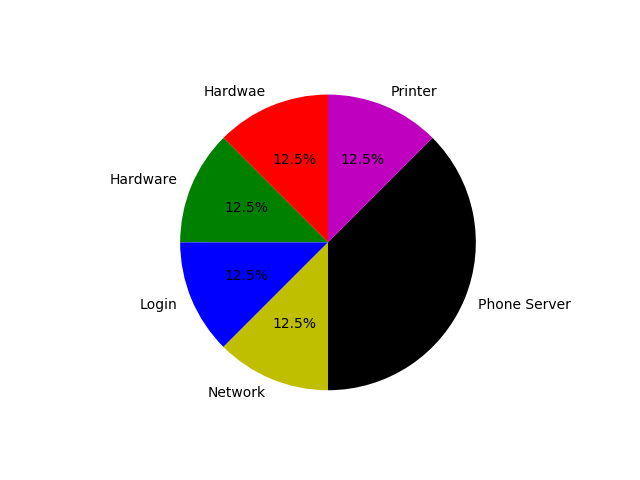
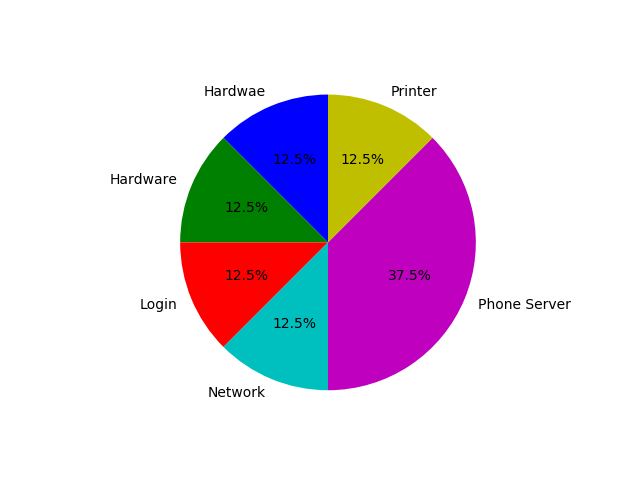
updated

Changed region(s): [[0.2812, 0.1875, 0.75, 0.8125]]

diff --git a/app/report_service.py b/app/report_service.py
@@ -27,7 +27,7 @@ def report_by_category():
                 index += 1
     #print(activities)
     #activities = ['Hardware', 'Internet', 'Login','Network','Phone Server', 'Printer']
-    colors = ['r', 'g','b','y','k','m']
+    colors = ['b', 'g','r','c','m','y']
     plt.pie(slices_hours, labels=activities, colors=colors, startangle=90, autopct='%.1f%%')
     #plt.show()
     plt.savefig('app/static/images/example_category_report.png')
@@ -58,7 +58,7 @@ def report_by_department():
                 index += 1
     #print(activities)
     #activities = ['Hardware', 'Internet', 'Login','Network','Phone Server', 'Printer']
-    colors = ['r', 'g','b','y','k','m']
+    colors = ['b', 'g','r','c','m','y']
     plt.pie(slices_hours, labels=activities, colors=colors, startangle=90, autopct='%.1f%%')
     #plt.show()
     plt.savefig('app/static/images/example_department_report.png')
